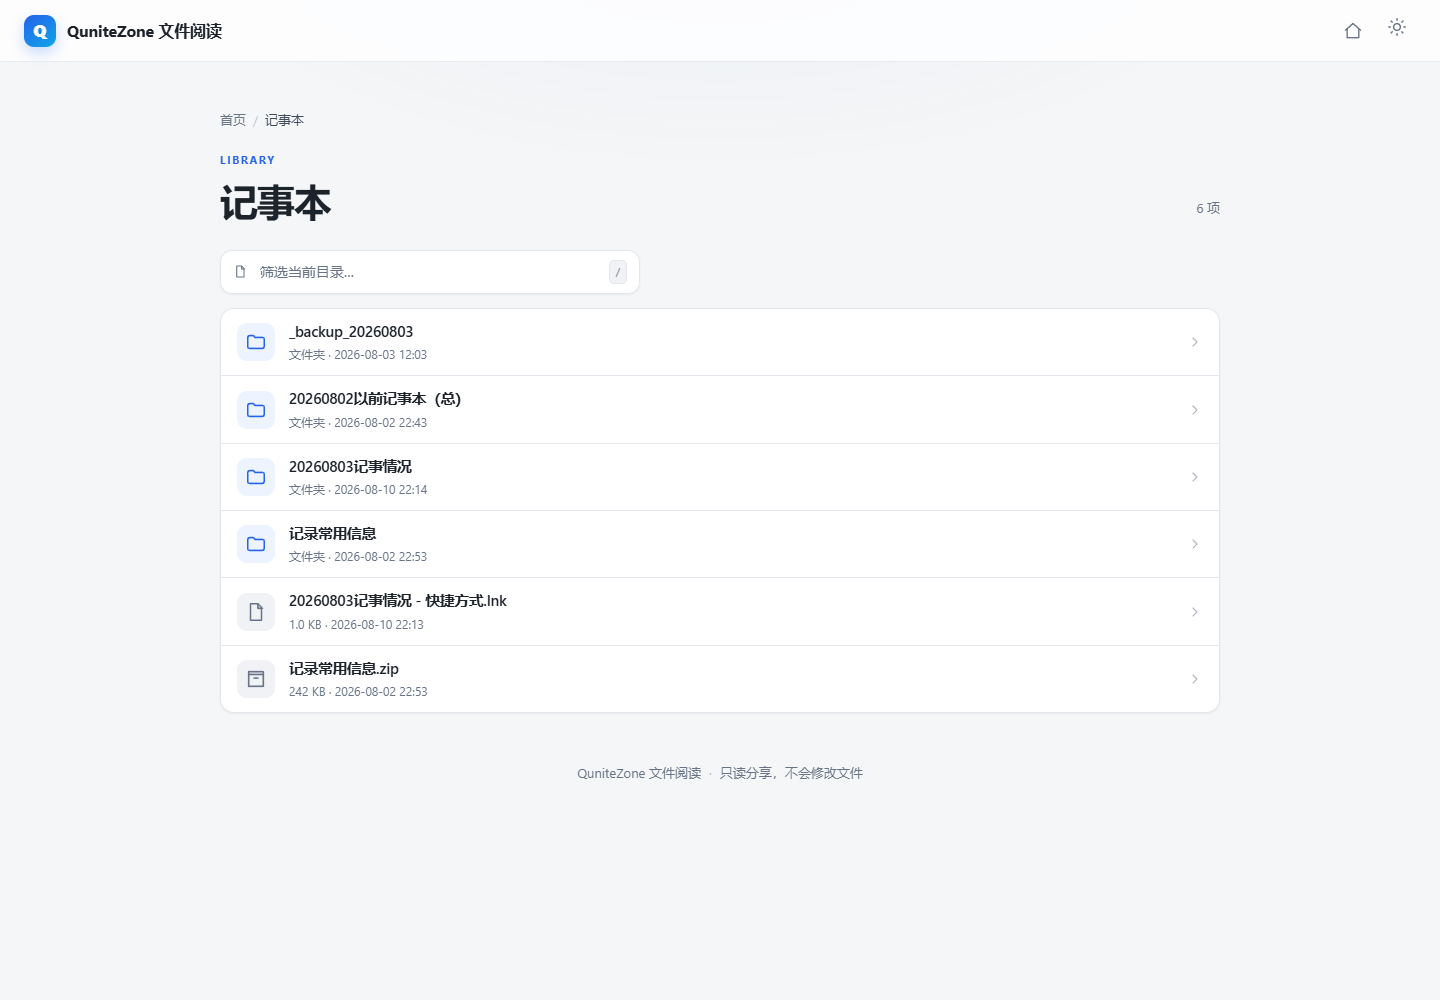
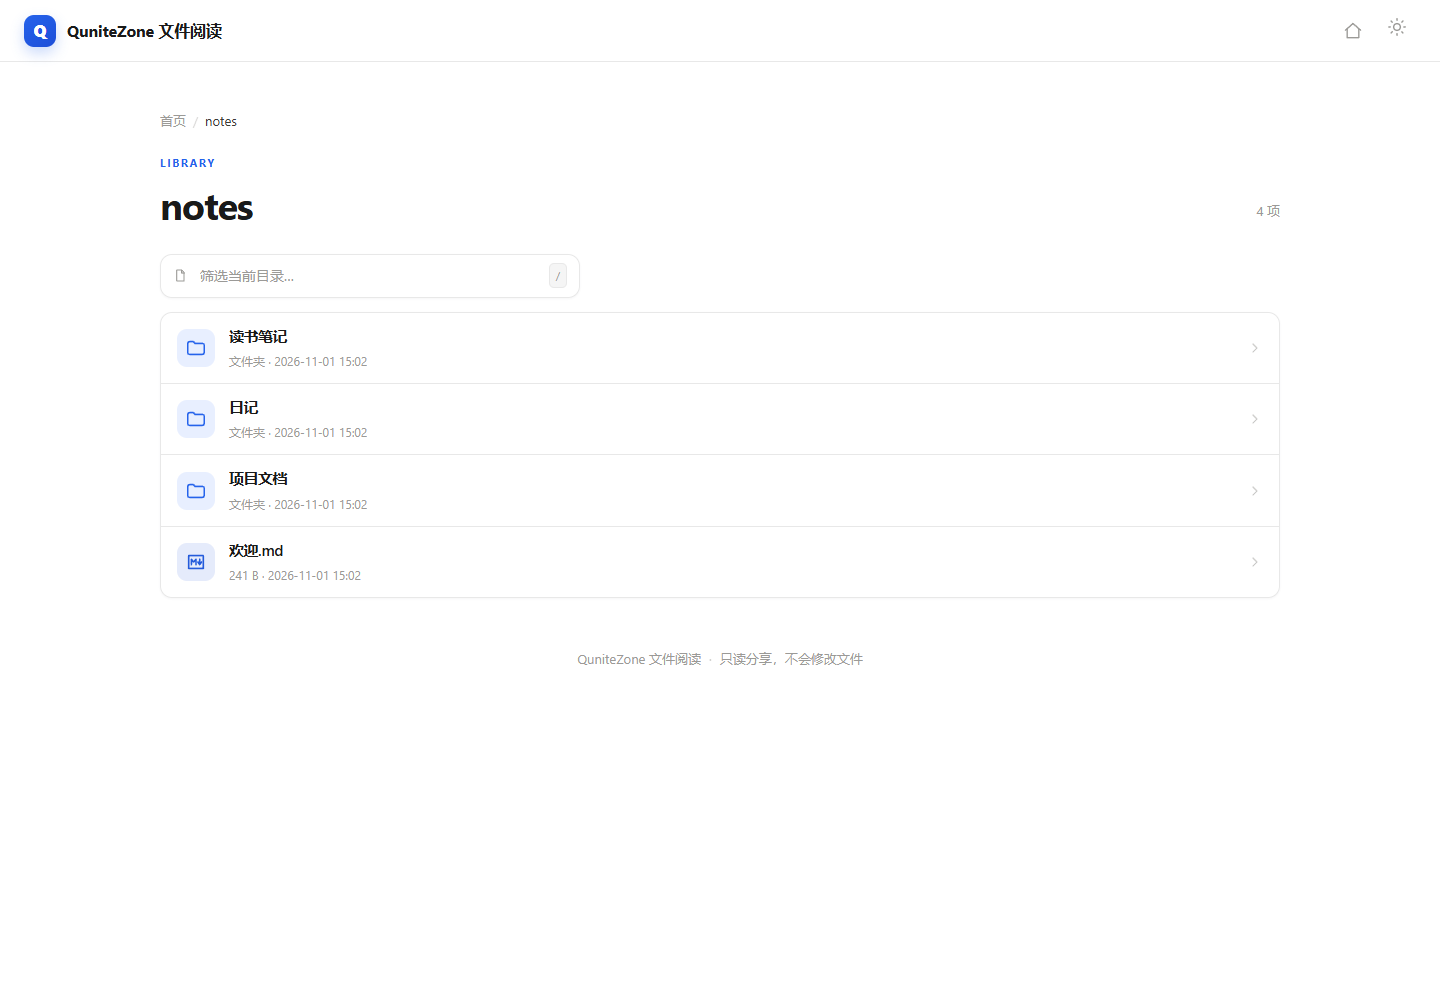
用演示内容重拍截图，示例路径去掉个人目录
- 截图改用临时 demo 站点生成，不再包含真实笔记与目录名
- 扩展缺省 baseUrl 改为 http://127.0.0.1:<port>
- config.example 与 README 使用中性示例路径

diff --git a/extension/extension.js b/extension/extension.js
@@ -7,7 +7,6 @@ const path = require('path');
 // 配置查找顺序：设置项 → 环境变量 → ~/.qgz-share/config.json → 旧版写死路径
 const DEFAULT_CONFIG_PATH = path.join(os.homedir(), '.qgz-share', 'config.json');
 const LEGACY_CONFIG_PATH = 'D:\\software\\qgz_code-server\\share-site\\config.json';
-const DEFAULT_BASE_URL = 'https://share.qunitezone.top';
 const API_TIMEOUT_MS = 1200;
 
 function settings() {
@@ -55,11 +54,13 @@ function readShareConfig() {
     throw new Error('分享配置里的 token 无效，请检查 config.json');
   }
 
-  const baseUrl = String(settings().get('baseUrl') || raw.baseUrl || DEFAULT_BASE_URL)
+  const port = Number(raw.port) > 0 ? Number(raw.port) : 8010;
+
+  const baseUrl = String(
+    settings().get('baseUrl') || raw.baseUrl || `http://127.0.0.1:${port}`
+  )
     .trim()
     .replace(/\/+$/, '');
-
-  const port = Number(raw.port) > 0 ? Number(raw.port) : 8010;
 
   const roots = (Array.isArray(raw.roots) ? raw.roots : [])
     .filter((item) => item && typeof item === 'object' && item.path)

diff --git a/README.md b/README.md
@@ -15,21 +15,33 @@ ShareSite 由两部分组成：
 
 首页：按「根目录」分组列出可分享的内容，带条目搜索。
 
-![首页](docs/images/home.png)目录浏览：面包屑、文件类型图标、大小与修改时间。
+![首页](docs/images/home.png)
 
-![目录浏览](docs/images/browse.png)Markdown 阅读页：代码高亮 + 复制按钮、图片点开看大图、右侧悬浮目录。
+目录浏览：面包屑、文件类型图标、大小与修改时间。
 
-![阅读页](docs/images/view-image.png)公式支持（KaTeX），深浅色跟随系统、也能手动切换。
+![目录浏览](docs/images/browse.png)
+
+Markdown 阅读页：右侧悬浮目录、阅读进度，笔记里手写的颜色会被归一到统一色板。
+
+![阅读页](docs/images/view.png)
+
+代码块带语言标签和一键复制；图片点开看大图。
+
+![代码](docs/images/view-image.png)
+
+![图表](docs/images/view-figure.png)
+
+公式支持（KaTeX），深浅色跟随系统、也能手动切换。
 
 ![公式](docs/images/view-math.png)
 
-![深色主题](docs/images/view-dark.png)移动端自适应，目录变成抽屉。
+![深色主题](docs/images/view-dark.png)
 
-<img src="docs/images/home-mobile.png" alt="移动端首页" width="93" />
+移动端自适应，目录变成抽屉。
 
-<img src="docs/images/view-mobile.png" alt="移动端阅读页" width="32" />
-
-<img src="docs/images/toc-mobile.png" alt="移动端目录" width="32" />
+| 首页 | 阅读页 | 目录抽屉 |
+| --- | --- | --- |
+| ![移动端首页](docs/images/home-mobile.png) | ![移动端阅读页](docs/images/view-mobile.png) | ![移动端目录](docs/images/toc-mobile.png) |
 
 ---
 
@@ -174,7 +186,7 @@ powershell -ExecutionPolicy Bypass -File scripts\install-extension.ps1
 ```json
 {
   "name": "notes",
-  "path": "D:\\QuniteZoneData\\notes",
+  "path": "D:\\notes",
   "enabled": true,
   "description": "个人笔记"
 }
